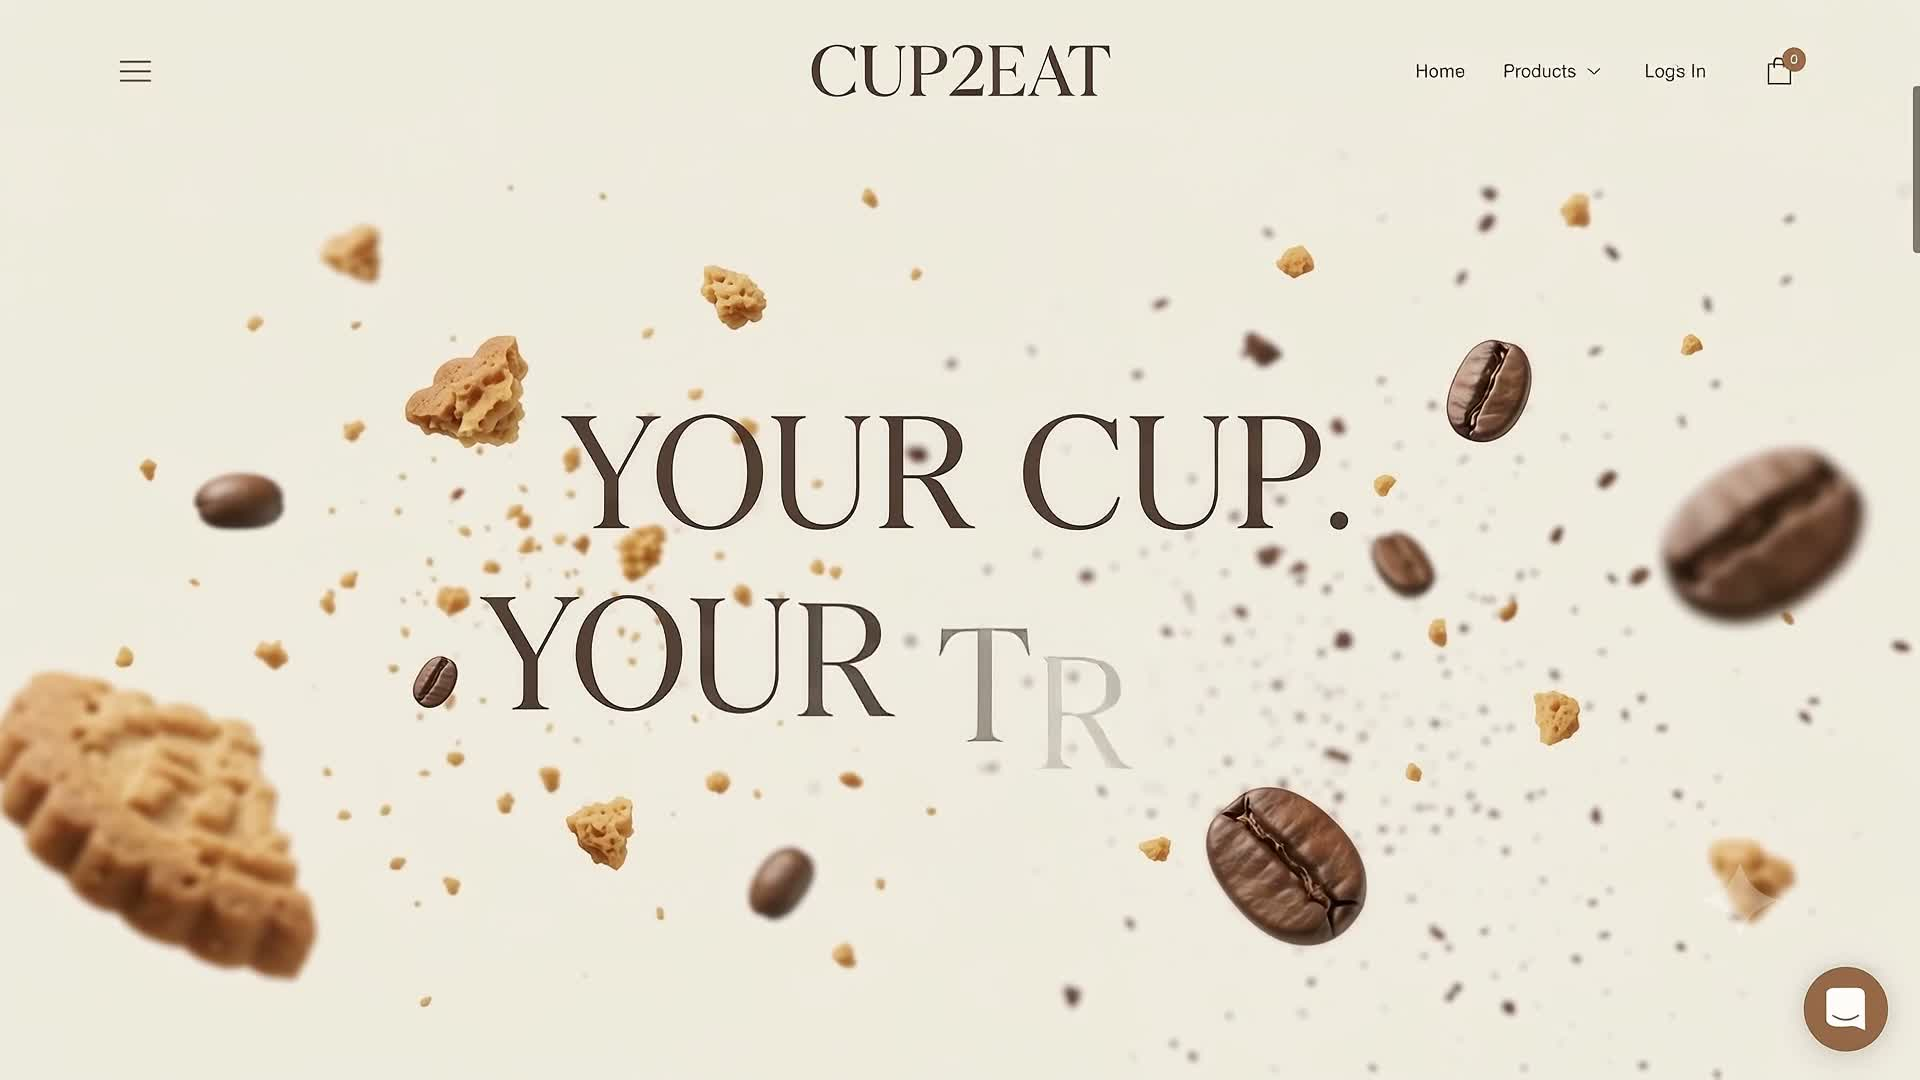
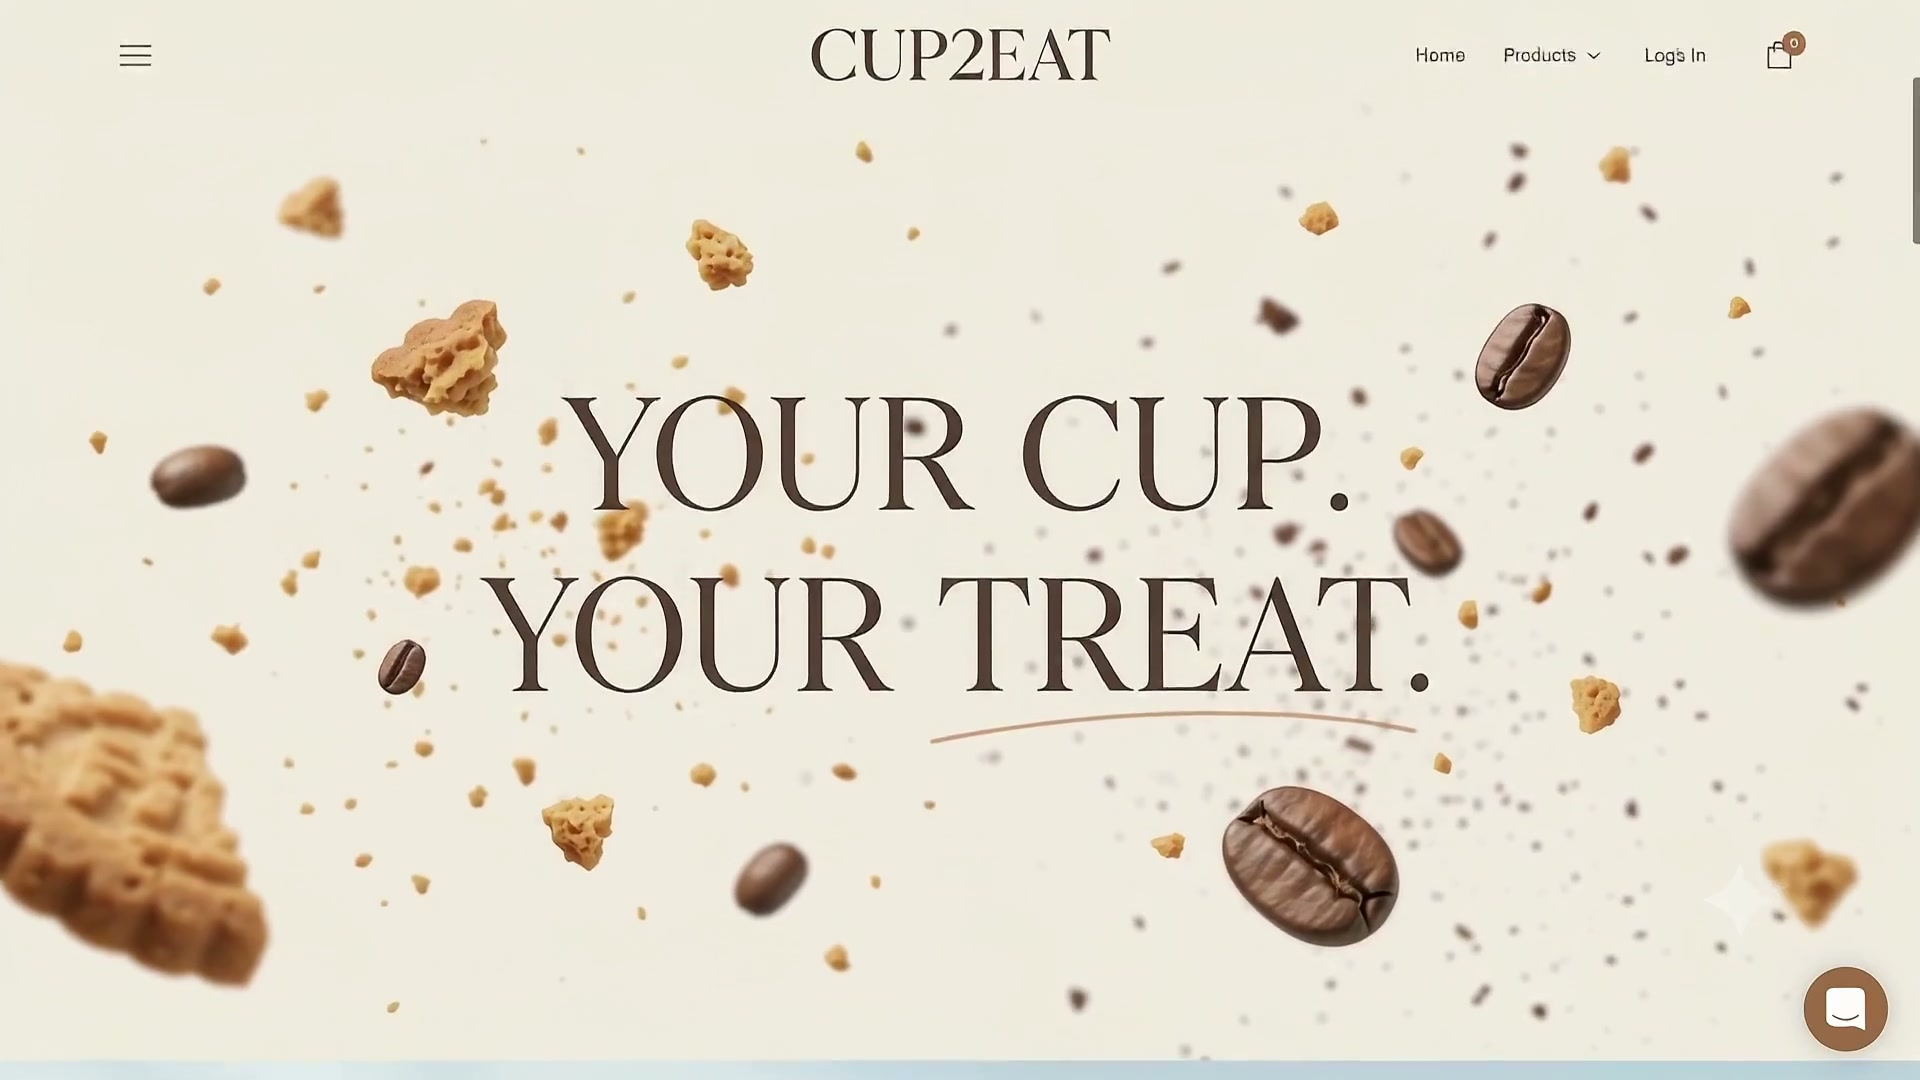
Demo 6B — paged scroll: three film pages

diff --git a/demo6b/index.html b/demo6b/index.html
@@ -9,8 +9,8 @@
       content="Cup2Eat edible cups — chai first, then eat the cup. 100 ml baked wafer cups in Chocolate, Vanilla and Elaichi. Box of 396 cups at ₹3,999, delivery included."
     />
     <title>Cup2Eat — Eat Your Drink</title>
-    <script type="module" crossorigin src="./assets/index-BF9l1xdq.js"></script>
-    <link rel="stylesheet" crossorigin href="./assets/index-xztk-Dgq.css">
+    <script type="module" crossorigin src="./assets/index-DT24xjms.js"></script>
+    <link rel="stylesheet" crossorigin href="./assets/index-DHGSzsGu.css">
   </head>
   <body>
     <div id="root"></div>
